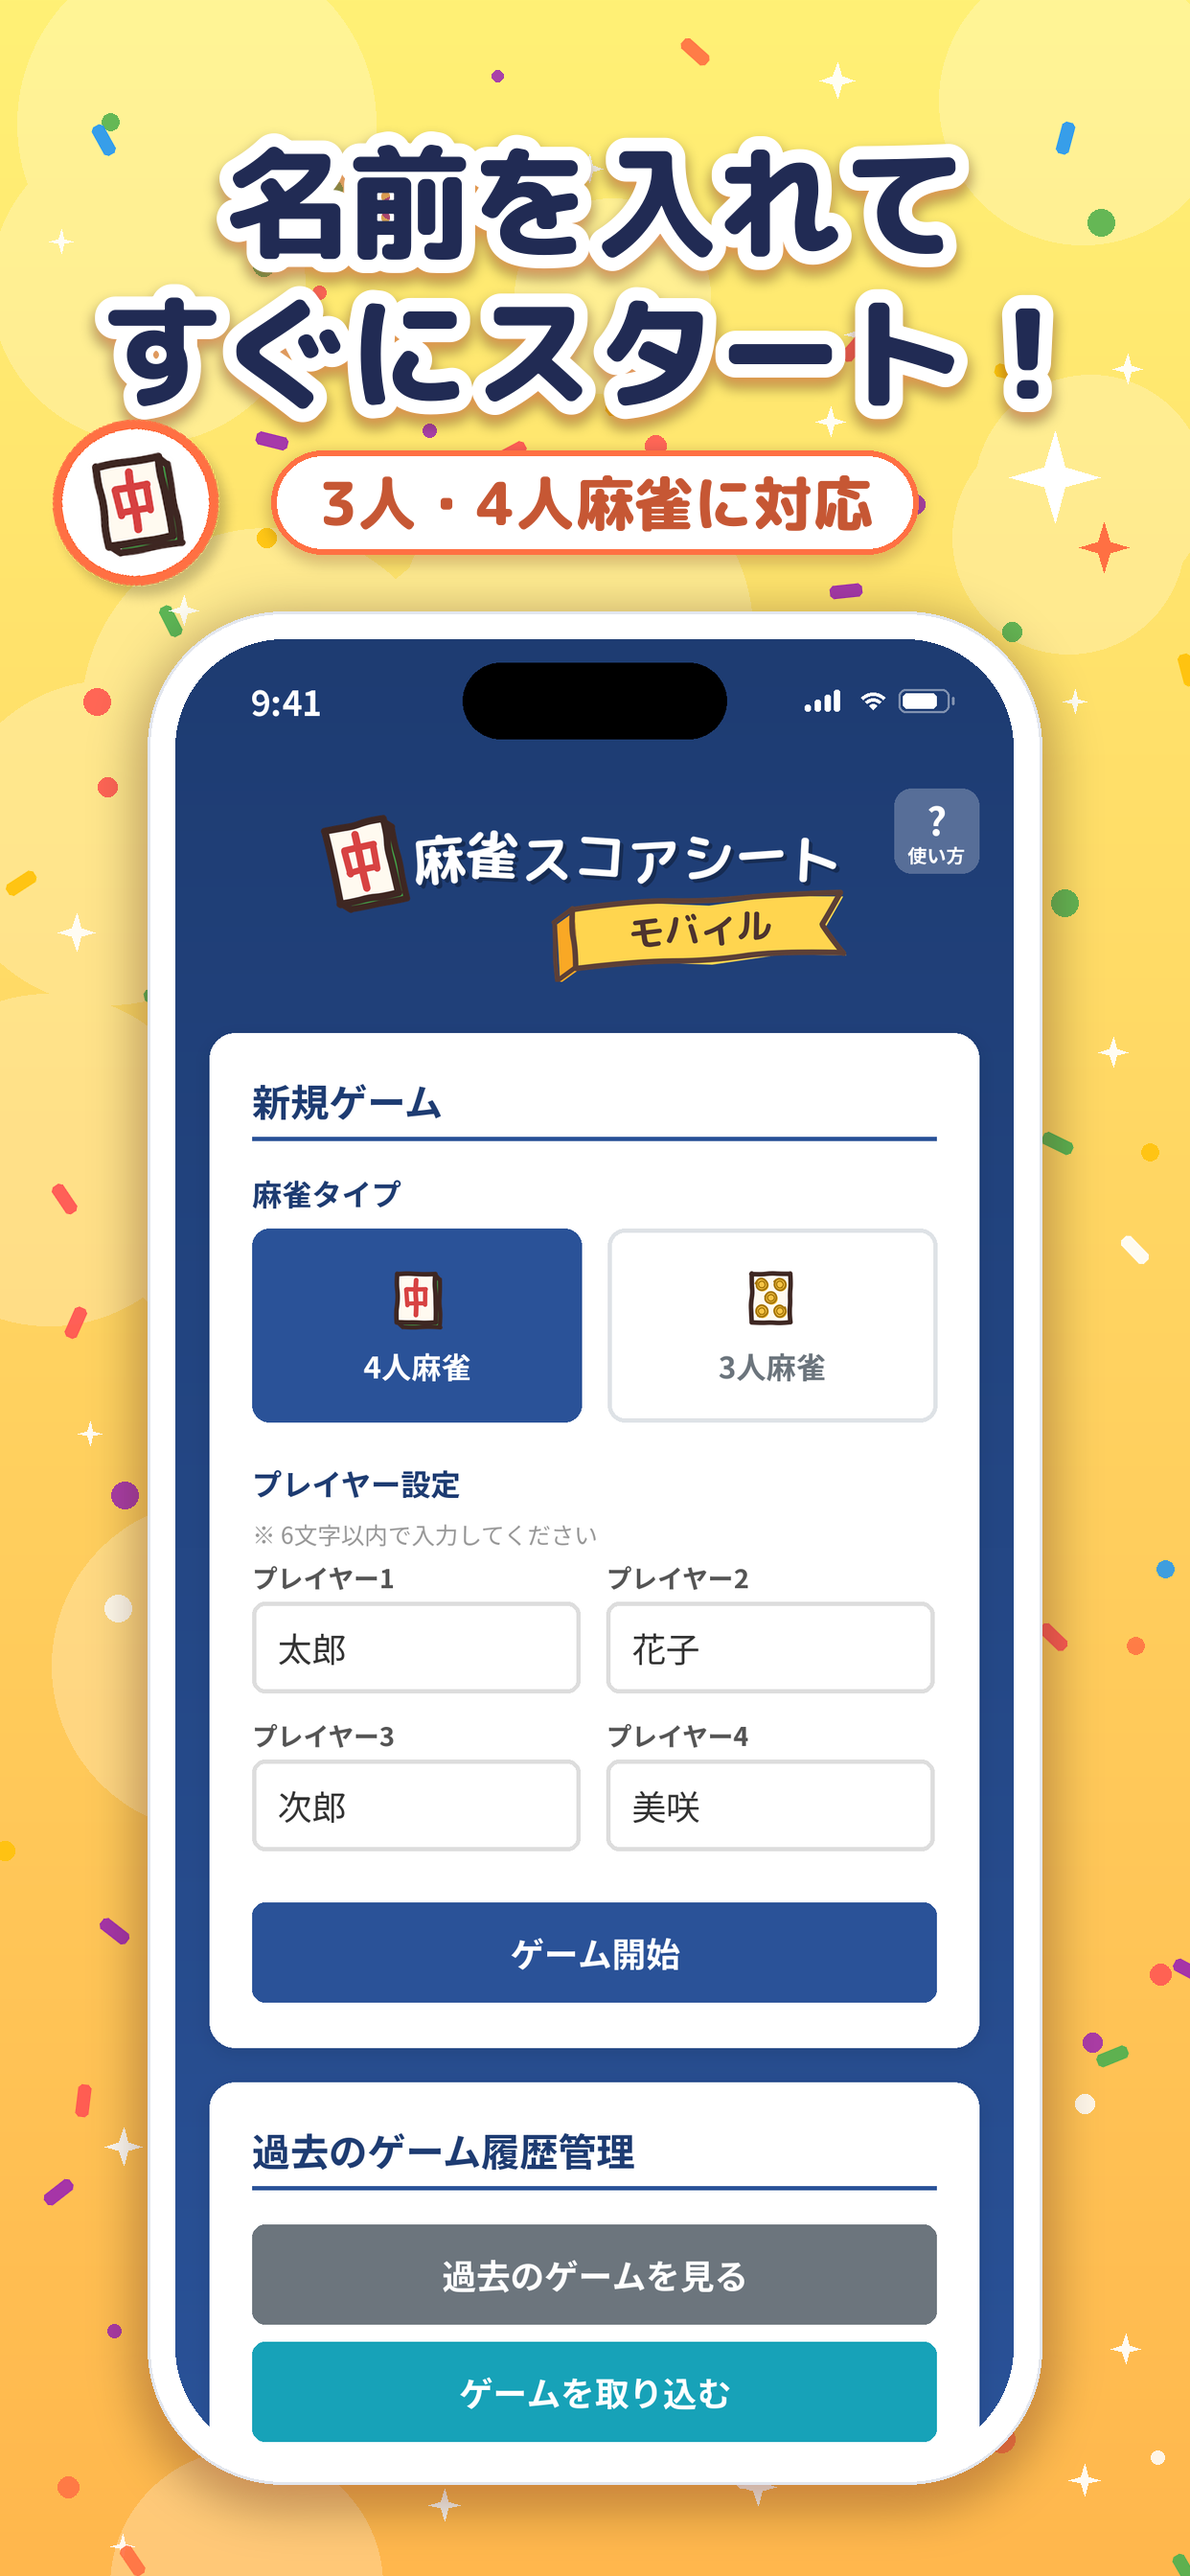
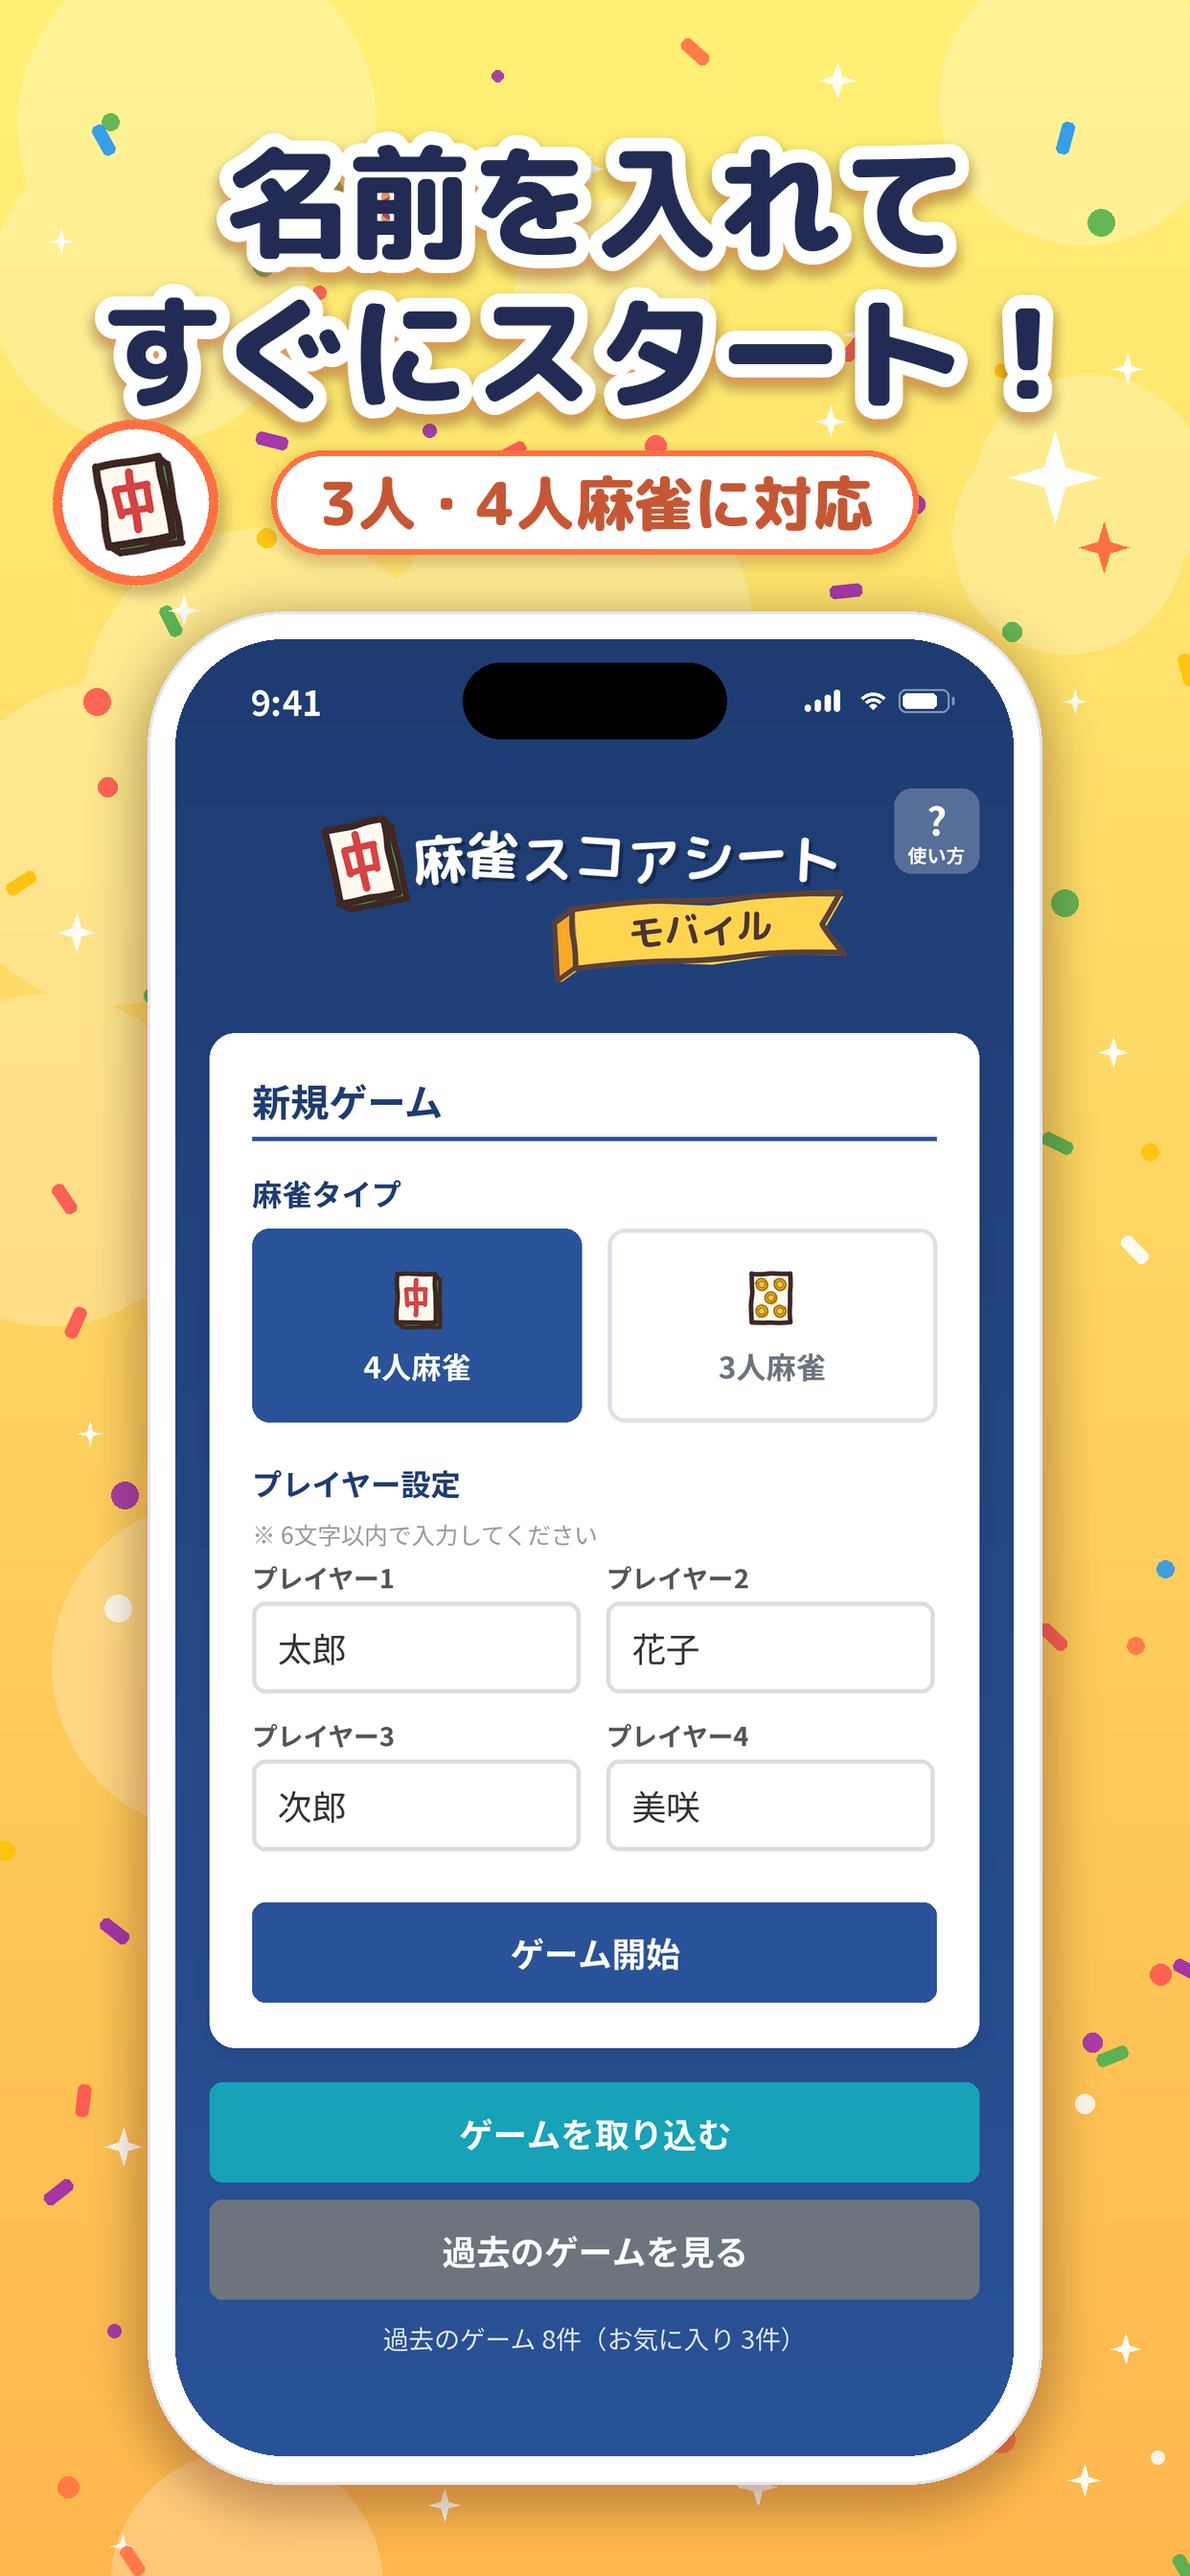
fix: 紹介画像のモックアップ内画面を現行UIに合わせる (#86)
- セットアップ画面: 履歴管理カードを廃止し「ゲームを取り込む」「過去のゲームを見る」の順にボタンを並べ、件数表示を追加
- 過去のゲーム一覧: 終了済みゲームに最終スコア（名前 +120）を表示し、ヘッダーに「選択」ボタンを追加。注記文も現行の文言に更新
- 全16枚を再生成（変化があったのは promo_1 / promo_5 の iPhone・iPad 計4枚）

Claude-Session: https://claude.ai/code/session_01QezeZoWL9coXQyacuSpACM

Changed region(s): [[0.153, 0.7812, 0.8261, 0.9688]]

diff --git a/generate_assets.py b/generate_assets.py
@@ -886,7 +886,7 @@ def header_button(sc, x, y, w, h, label, fill, fg=WHITE, outline=None, size=14):
     sc.text(x + w / 2, y + h / 2, label, size, fg, True, 'mm')
 
 
-def back_header(sc, y, title, right=None, fg=WHITE, back_fill=WHITE_A(0.2), title_size=24):
+def back_header(sc, y, title, right=None, fg=WHITE, back_fill=WHITE_A(0.2), title_size=24, right_min_w=0):
     """← 戻る | タイトル | 右側。ヘッダー下端の y を返す。"""
     bw = sc.text_w('← 戻る', 14) + 24
     h = 34
@@ -895,7 +895,7 @@ def back_header(sc, y, title, right=None, fg=WHITE, back_fill=WHITE_A(0.2), titl
     sc.text(sc.wdp / 2, y + hh / 2, title, title_size, fg, True, 'mm')
     if right:
         label, fill, rfg = right
-        rw = sc.text_w(label, 14) + 24
+        rw = max(sc.text_w(label, 14) + 24, right_min_w)
         header_button(sc, sc.wdp - PAD - rw, y + (hh - 30) / 2, rw, 30, label, fill, rfg)
     return y + hh
 
@@ -1295,14 +1295,16 @@ def draw_setup_screen(sc):
     sc.text(sc.wdp / 2, cy + 23.5, 'ゲーム開始', 16, WHITE, True, 'mm')
     y += h + 16
 
-    # 過去のゲーム履歴管理
-    h2 = 20 + 48 + 47 + 8 + 47 + 20
-    sc.card(x, y, w, h2)
-    cy = section_title(sc, x + 20, y + 20, inner, '過去のゲーム履歴管理', size=18, mb=16)
-    for label, fill in (('過去のゲームを見る', GRAY_TEXT), ('ゲームを取り込む', TEAL)):
-        sc.rect(x + 20, cy, inner, 47, 6, fill=fill)
-        sc.text(sc.wdp / 2, cy + 23.5, label, 16, WHITE, True, 'mm')
-        cy += 47 + 8
+    # 履歴まわりのボタン（Issue #81: カードを廃止し、取り込む→見るの順にボタンだけを並べる）
+    for label, fill in (('ゲームを取り込む', TEAL), ('過去のゲームを見る', GRAY_TEXT)):
+        sc.rect(x, y, w, 47, 6, fill=fill)
+        sc.text(sc.wdp / 2, y + 23.5, label, 16, WHITE, True, 'mm')
+        y += 47 + 8
+    # 過去のゲーム件数・お気に入り件数（一覧のモックアップと数をそろえる）
+    saved = [g for g in PAST_GAMES if not g[6]]
+    n_fav = sum(1 for g in saved if g[4])
+    sc.text(sc.wdp / 2, y - 8 + 10 + 7.5, f"過去のゲーム {len(saved)}件（お気に入り {n_fav}件）",
+            12, WHITE_A(0.85), False, 'mm')
     return card_top
 
 
@@ -1408,17 +1410,35 @@ def generate_promo_share(output_path, config=IPHONE):
 
 
 PAST_GAMES = [
-    # (日付, 人数, プレイヤー, 半荘数, お気に入り, 取り込み, 閲覧中)
-    ('2026/11/24', 4, ['健太', '翔', '大輔', '拓海'], 2, None, False, True),
-    ('2026/11/22', 4, PLAYERS, 3, True, False, False),
-    ('2026/11/20', 3, ['太郎', '花子', '次郎'], 6, True, False, False),
-    ('2026/11/15', 4, ['Aさん', 'Bさん', 'Cさん', 'Dさん'], 5, False, True, False),
-    ('2026/11/08', 3, ['太郎', '美咲', '次郎'], 4, False, False, False),
-    ('2026/11/01', 4, PLAYERS, 6, True, False, False),
-    ('2026/10/25', 3, ['花子', '次郎', '美咲'], 3, False, False, False),
-    ('2026/10/18', 4, ['太郎', '花子', '健太', '翔'], 5, False, False, False),
-    ('2026/10/11', 4, PLAYERS, 4, False, False, False),
+    # (日付, 人数, プレイヤー, 半荘数, お気に入り, 取り込み, 閲覧中, 最終スコア)
+    # 最終スコアは終了済みゲームのみ（Issue #78）。閲覧中の対局は名前だけを表示する
+    ('2026/11/24', 4, ['健太', '翔', '大輔', '拓海'], 2, None, False, True, None),
+    ('2026/11/22', 4, PLAYERS, 3, True, False, False, [72, -18, 35, -89]),
+    ('2026/11/20', 3, ['太郎', '花子', '次郎'], 6, True, False, False, [120, -45, -75]),
+    ('2026/11/15', 4, ['Aさん', 'Bさん', 'Cさん', 'Dさん'], 5, False, True, False, [-32, 88, 14, -70]),
+    ('2026/11/08', 3, ['太郎', '美咲', '次郎'], 4, False, False, False, [-60, 95, -35]),
+    ('2026/11/01', 4, PLAYERS, 6, True, False, False, [148, -52, 0, -96]),
+    ('2026/10/25', 3, ['花子', '次郎', '美咲'], 3, False, False, False, [41, -63, 22]),
+    ('2026/10/18', 4, ['太郎', '花子', '健太', '翔'], 5, False, False, False, [-25, 64, -81, 42]),
+    ('2026/10/11', 4, PLAYERS, 4, False, False, False, [33, 57, -40, -50]),
 ]
+
+
+def final_score_lines(sc, names, scores, max_w):
+    """最終スコア（「名前 +120」）を flexWrap と同じように折り返す。行ごとの [(name, value), ...] を返す。"""
+    lines, cur, cur_w = [], [], 0
+    for name, v in zip(names, scores):
+        iw = sc.text_w(name + ' ', 14, False) + sc.text_w(fmt_signed(v), 14)
+        add = iw if not cur else 12 + iw
+        if cur and cur_w + add > max_w:
+            lines.append(cur)
+            cur, cur_w = [], 0
+            add = iw
+        cur.append((name, v))
+        cur_w += add
+    if cur:
+        lines.append(cur)
+    return lines
 
 
 def generate_promo_past_games(output_path, config=IPHONE):
@@ -1426,17 +1446,21 @@ def generate_promo_past_games(output_path, config=IPHONE):
     sc = Screen(config)
     x, w = PAD, sc.wdp - 2 * PAD
     y = sc.top + 12
-    y = back_header(sc, y, '過去のゲーム', title_size=20) + 12
-    note = ('星マークをタップでお気に入り（最大20件）。保存はお気に入りを含めて100件までで、'
-            '超えるとお気に入り以外の古いものから自動で削除されます。')
+    y = back_header(sc, y, '過去のゲーム', ('選択', WHITE_A(0.2), WHITE), title_size=20, right_min_w=70) + 12
+    note = ('星マークをタップでお気に入り（最大20件）。長押しで選択して削除できます。'
+            '保存はお気に入りを含めて100件までで、超えるとお気に入り以外の古いものから自動で削除されます。')
     y = sc.paragraph(x, y, note, 12, WHITE_A(0.85), w, 18) + 12
-    card_h = 16 + 22 + 8 + 1 + 10 + 20 + 16
-    for date, count, names, hanchan, fav, imported, joined in PAST_GAMES:
+    for date, count, names, hanchan, fav, imported, joined, scores in PAST_GAMES:
+        ix, iw = x + 16, w - 32
+        hanchan_label = f"{hanchan}半荘"
+        list_w = iw - 8 - sc.text_w(hanchan_label, 13)
+        lines = final_score_lines(sc, names, scores, list_w) if scores else None
+        body_h = 20 if not lines else len(lines) * 18 + (len(lines) - 1) * 2
+        card_h = 16 + 22 + 8 + 1 + 10 + body_h + 16
         if joined:
             sc.card(x, y, w, card_h, fill=C_LIVE_CARD, outline=YELLOW_LIVE, width=2)
         else:
             sc.card(x, y, w, card_h)
-        ix, iw = x + 16, w - 32
         hy = y + 16 + 11
         sc.text(ix, hy, date, 16, SECTION_TITLE_COLOR, True, 'lm')
         bx = ix + sc.text_w(date, 16) + 8
@@ -1458,9 +1482,20 @@ def generate_promo_past_games(output_path, config=IPHONE):
         sc.text(rx, hy, label, 13, GRAY_TEXT, False, 'rm')
         sc.icon('fan' if count == 3 else 'tile', rx - lw - 3 - 16, hy - 8, 16)
         sc.rect(ix, y + 16 + 22 + 8, iw, 1, fill=(238, 238, 238))
-        by = y + 16 + 22 + 8 + 1 + 10 + 10
-        sc.text(ix, by, ' / '.join(names), 14, DARK_TEXT, False, 'lm')
-        sc.text(ix + iw, by, f"{hanchan}半荘", 13, GRAY_TEXT, True, 'rm')
+        body_y = y + 16 + 22 + 8 + 1 + 10
+        if lines:
+            # 終了済みゲームは最終スコア付きで表示（Issue #78）
+            for li, line in enumerate(lines):
+                ly = body_y + li * 20 + 9
+                lx = ix
+                for name, v in line:
+                    sc.text(lx, ly, name + ' ', 14, DARK_TEXT, False, 'lm')
+                    lx += sc.text_w(name + ' ', 14, False)
+                    sc.text(lx, ly, fmt_signed(v), 14, value_color(v), True, 'lm')
+                    lx += sc.text_w(fmt_signed(v), 14) + 12
+        else:
+            sc.text(ix, body_y + 10, ' / '.join(names), 14, DARK_TEXT, False, 'lm')
+        sc.text(ix + iw, body_y + body_h / 2, hanchan_label, 13, GRAY_TEXT, True, 'rm')
         y += card_h + 12
         if y > sc.hdp:
             break
